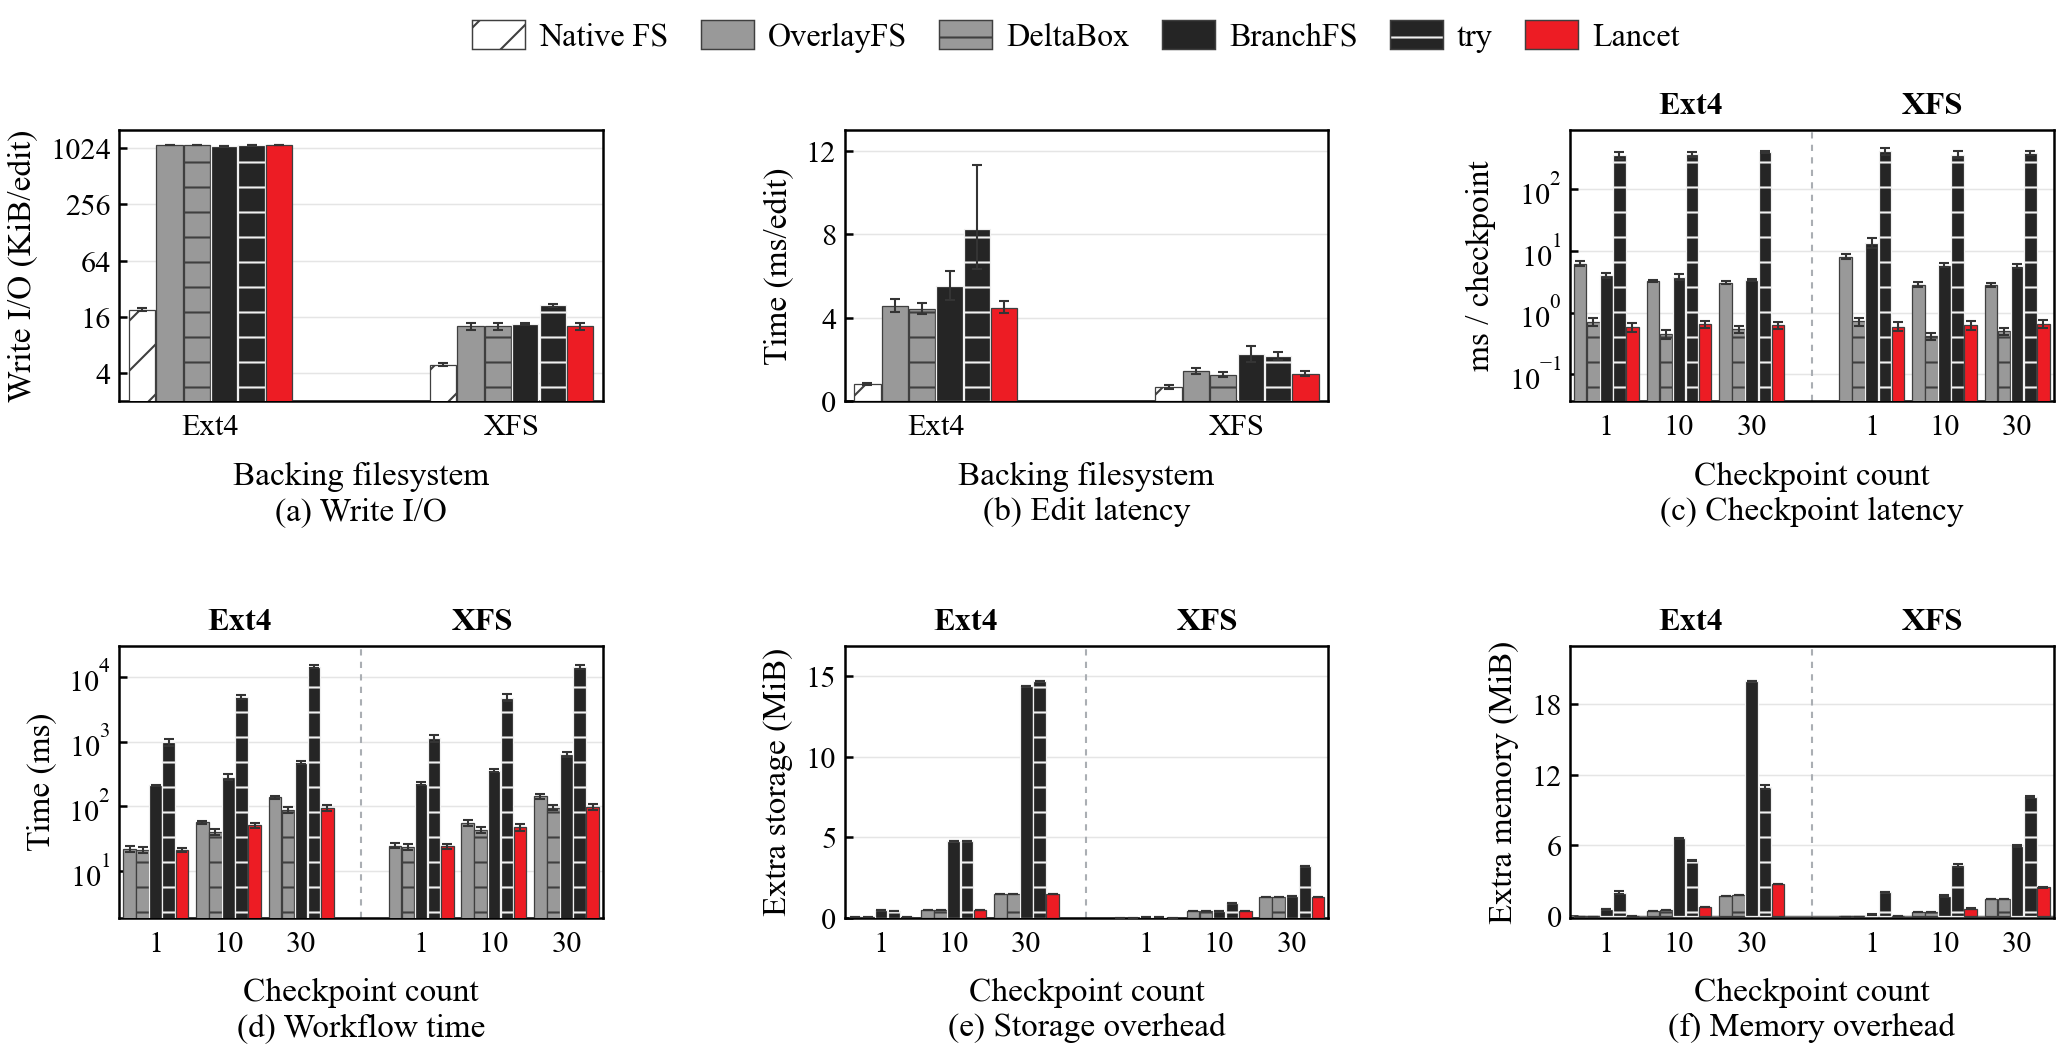
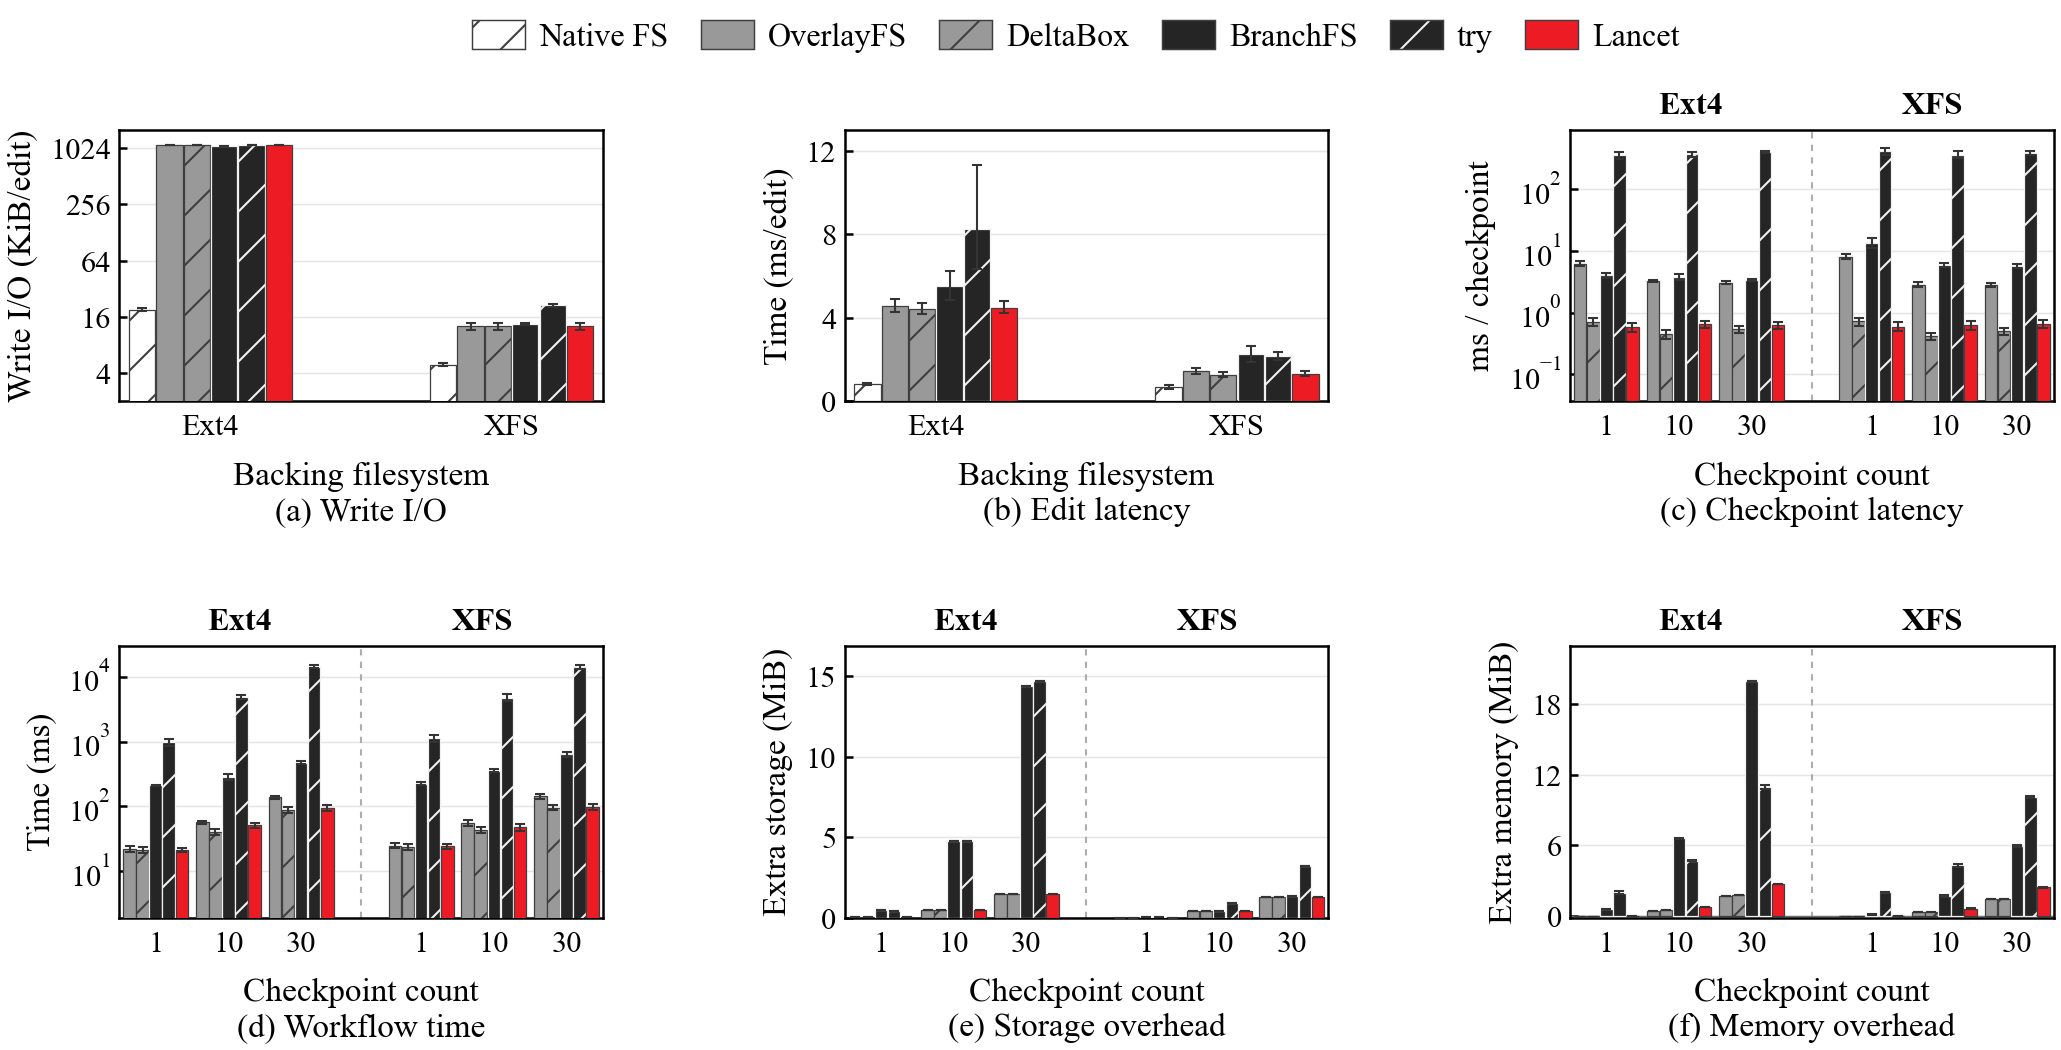
Use consistent diagonal hatches in Figure 14

Changed region(s): [[0.0932, 0.2743, 0.1242, 0.3048], [0.0932, 0.1524, 0.1242, 0.1829]]

diff --git a/motivation/plot_rq5_storage.py b/motivation/plot_rq5_storage.py
@@ -28,7 +28,7 @@ SOURCES = {
 OUTPUT = ROOT/'paper/figures/rq5-storage'
 RQ5_PALETTE = {'white': '#ffffff', 'gray': '#999999', 'black': '#252525',
                'lancet': '#ed1c24'}
-CONTROL_PATTERNS = {'white': '//', 'gray': '--', 'black': '--'}
+CONTROL_PATTERNS = {'white': '//', 'gray': '//', 'black': '//'}
 VARIANTS = {'native': ('Native FS', 'white', CONTROL_PATTERNS['white']),
             'overlay-sync': ('OverlayFS', 'gray', ''),
             'deltafs': ('DeltaBox', 'gray', CONTROL_PATTERNS['gray']),
